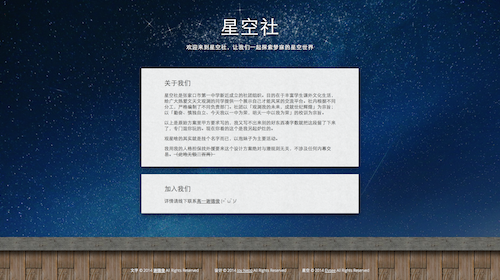
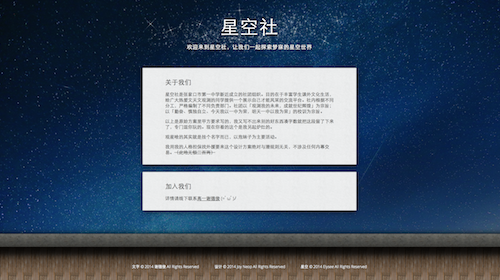
lab 2013#10 modified

diff --git a/lab/2013/10/index.html b/lab/2013/10/index.html
@@ -3,31 +3,30 @@
 <head>
 	<meta charset="utf-8">
 	<title>星空社</title>
-	<base href="http://joyneop.github.io/JN-Lab/other-images/"></base>
+	<base href="http://joyneop.github.io/"></base>
 	<link rel="shortcut icon favicon" href="ssc-logo.ico">
 	<link rel="apple-touch-icon" href="ssc-logo.png">
 	<style type="text/css">
-	@import url(http://fonts.googleapis.com/css?family=Open+Sans);
+	@import url(http://fonts.googleapis.com/css?family=Open+Sans:400m,300);
 	* {
-		font-family: 'Open Sans', sans-serif;
+		font-family: 'Open Sans', Helvetica, Helvetica Neue, Arial, sans-serif;
 	}
 	body {
 		margin: 0;
-		min-height: 1200px;
 		color: #444;
 		font-weight: 100;
-		background: #EEE url(ssc-wood.jpg) bottom repeat scroll;
+		background: #EEE url(JN-Lab/other-images/ssc-wood.jpg) bottom repeat scroll;
+		background-size: 60px 196px;
 		overflow-x: hidden;
 	}
 	.window {
-		background: #000 url(ssc-stars-bg.jpg) fixed no-repeat bottom;
+		background: #000 url(JN-Lab/other-images/ssc-stars-bg.jpg) fixed no-repeat bottom;
 		background-size: cover;
 		margin: 0;
 		padding-bottom: 90px;
 	}
 	header.global-header {
-		background: rgba(0, 0, 0, 0) center no-repeat scroll;
-		background-image: url(ssc-spark.png);
+		background: rgba(0, 0, 0, 0) url(JN-Lab/other-images/ssc-spark.png) center no-repeat scroll;
 		padding-top: 35px;
 		padding-bottom: 30px;
 		text-shadow: 0 4px 7px rgba(0, 0, 0, 0.9);
@@ -55,7 +54,8 @@
 		margin-bottom: 10px;
 	}
 	div.cont {
-		background: #EEE url(paper-light.png) top repeat scroll;
+		background: #EEE url(JN-Lab/other-images/paper-light.png) top repeat scroll;
+		background-size: 100px;
 		width: 640px;
 		margin-top: 30px;
 		margin-left: auto;
@@ -84,20 +84,21 @@
 	}
 	.stone {
 		height: 50px;
-		background: #CCC url(ssc-stone.jpg) center repeat scroll;
-		box-shadow: 0 15px 20px rgba(0, 0, 0, 0.75);
+		background: #CCC url(JN-Lab/other-images/ssc-stone.jpg) center repeat scroll;
+		background-size: 105px 50px;
+		box-shadow: rgba(0, 0, 0, 0.75) 0 15px 20px 18px;
 	}
 	.stone > .shadow {
-		background-image: linear-gradient(top, rgba(0, 0, 0, 0), rgba(0, 0, 0, 0.45));
+		background-image: linear-gradient(rgba(0, 0, 0, 0), rgba(0, 0, 0, 0.45));
 		height: 50px;
 	}
 	.wood {
 		height: 40px;
-		background: #CCC url(wood.jpg) bottom repeat scroll;
-		box-shadow: 0 15px 20px rgba(0, 0, 0, 0.55);
+		background: #CCC url(JN-Lab/other-images/wood.jpg) bottom repeat scroll;
+		box-shadow: rgba(0, 0, 0, 0.35) 0 15px 20px 18px;
 	}
 	.wood > .shadow {
-		background-image: linear-gradient(top, rgba(0, 0, 0, 0.6), rgba(0, 0, 0, 0.5),rgba(0, 0, 0, 0.3), rgba(0, 0, 0, 0.1), rgba(0, 0, 0, 0));
+		background-image: linear-gradient(rgba(0, 0, 0, 0.6), rgba(0, 0, 0, 0.5),rgba(0, 0, 0, 0.3), rgba(0, 0, 0, 0.1), rgba(0, 0, 0, 0.04));
 		height: 40px;
 	}
 	footer.copyright {
@@ -108,13 +109,13 @@
 		color: #FFF;
 		width: 100%;
 		text-shadow: 0 1px 2px rgba(0, 0, 0, 0.7);
-		background-image: linear-gradient(top, rgba(0, 0, 0, 0.6), rgba(0, 0, 0, 0.5),rgba(0, 0, 0, 0.3), rgba(0, 0, 0, 0.1), rgba(0, 0, 0, 0));
+		background-image: linear-gradient(rgba(0, 0, 0, 0.6), rgba(0, 0, 0, 0.5),rgba(0, 0, 0, 0.3), rgba(0, 0, 0, 0.1), rgba(0, 0, 0, 0));
 	}
 	footer.copyright a {
 		color: #FDFDFD;
-		text-decoration: underline;
+		text-decoration: none;
 	}
-	footer.copyright span#space {
+	footer.copyright span.space {
 		display: inline-block;
 		width: 60px;
 	}
@@ -142,7 +143,7 @@
 			<p>
 				我用我的人格担保找外援要来这个设计方案绝对与潜规则无关，不涉及任何内幕交易。<del>（此地无银三百两）</del>
 			</p>
-		</div> <!-- .cont -->
+		</div>
 		<div class="cont">
 			<h2>
 				加入我们
@@ -150,11 +151,11 @@
 			<p>
 				详情请线下联系<a href="mailto:sky@deeftse.de">高一谢德俊</a> (=ﾟωﾟ)ﾉ
 			</p>
-		</div> <!-- .cont -->
-	</div> <!-- .window -->
+		</div>
+	</div>
 	<div class="stone"><div class="shadow"></div></div>
 	<footer class="copyright">
-		文字 &copy; 2014 <a href="http://www.deefhi.com/" target="_blank">谢德俊</a> All Rights Reserved<span id="space"></span>设计 &copy; 2014 <a href="http://www.joyneop.com/" target="_blank">Joy Neop</a> All Rights Reserved<span id="space"></span>星空 &copy; 2014 <a href="http://lordshen.lofter.com/post/e74e1_8c74d5" target="_blank">Elysee</a> All Rights Reserved
+		文字 &copy; 2014 <a href="http://www.deefhi.com/" target="_blank">谢德俊</a> All Rights Reserved<span class="space"></span>设计 &copy; 2014 <a href="http://www.joyneop.com/" target="_blank">Joy Neop</a> All Rights Reserved<span class="space"></span>星空 &copy; 2014 <a href="http://lordshen.lofter.com/post/e74e1_8c74d5" target="_blank">Elysee</a> All Rights Reserved
 	</footer>
 </body>
 </html>
